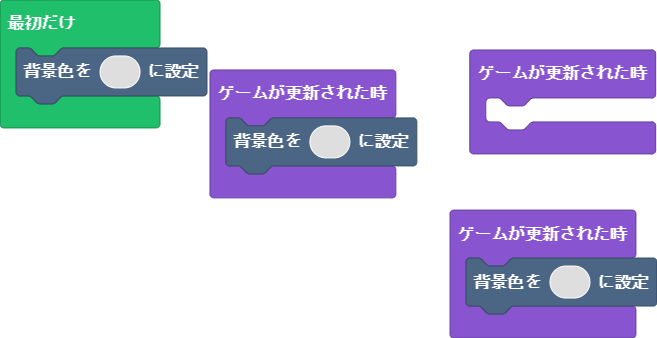
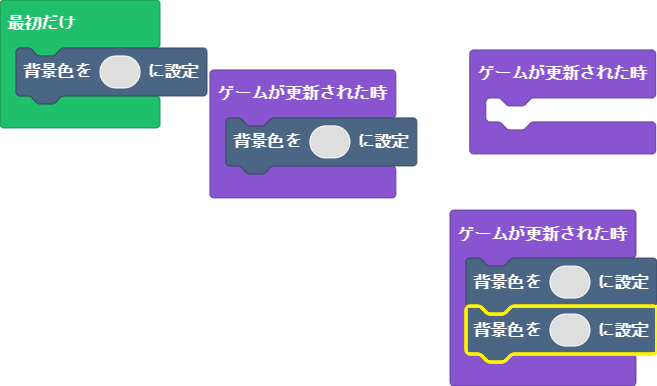
更新 main.blocks, main.ts

diff --git a/main.ts b/main.ts
@@ -7,4 +7,5 @@ game.onUpdate(function () {
 })
 game.onUpdate(function () {
     scene.setBackgroundColor(0)
+    scene.setBackgroundColor(0)
 })
